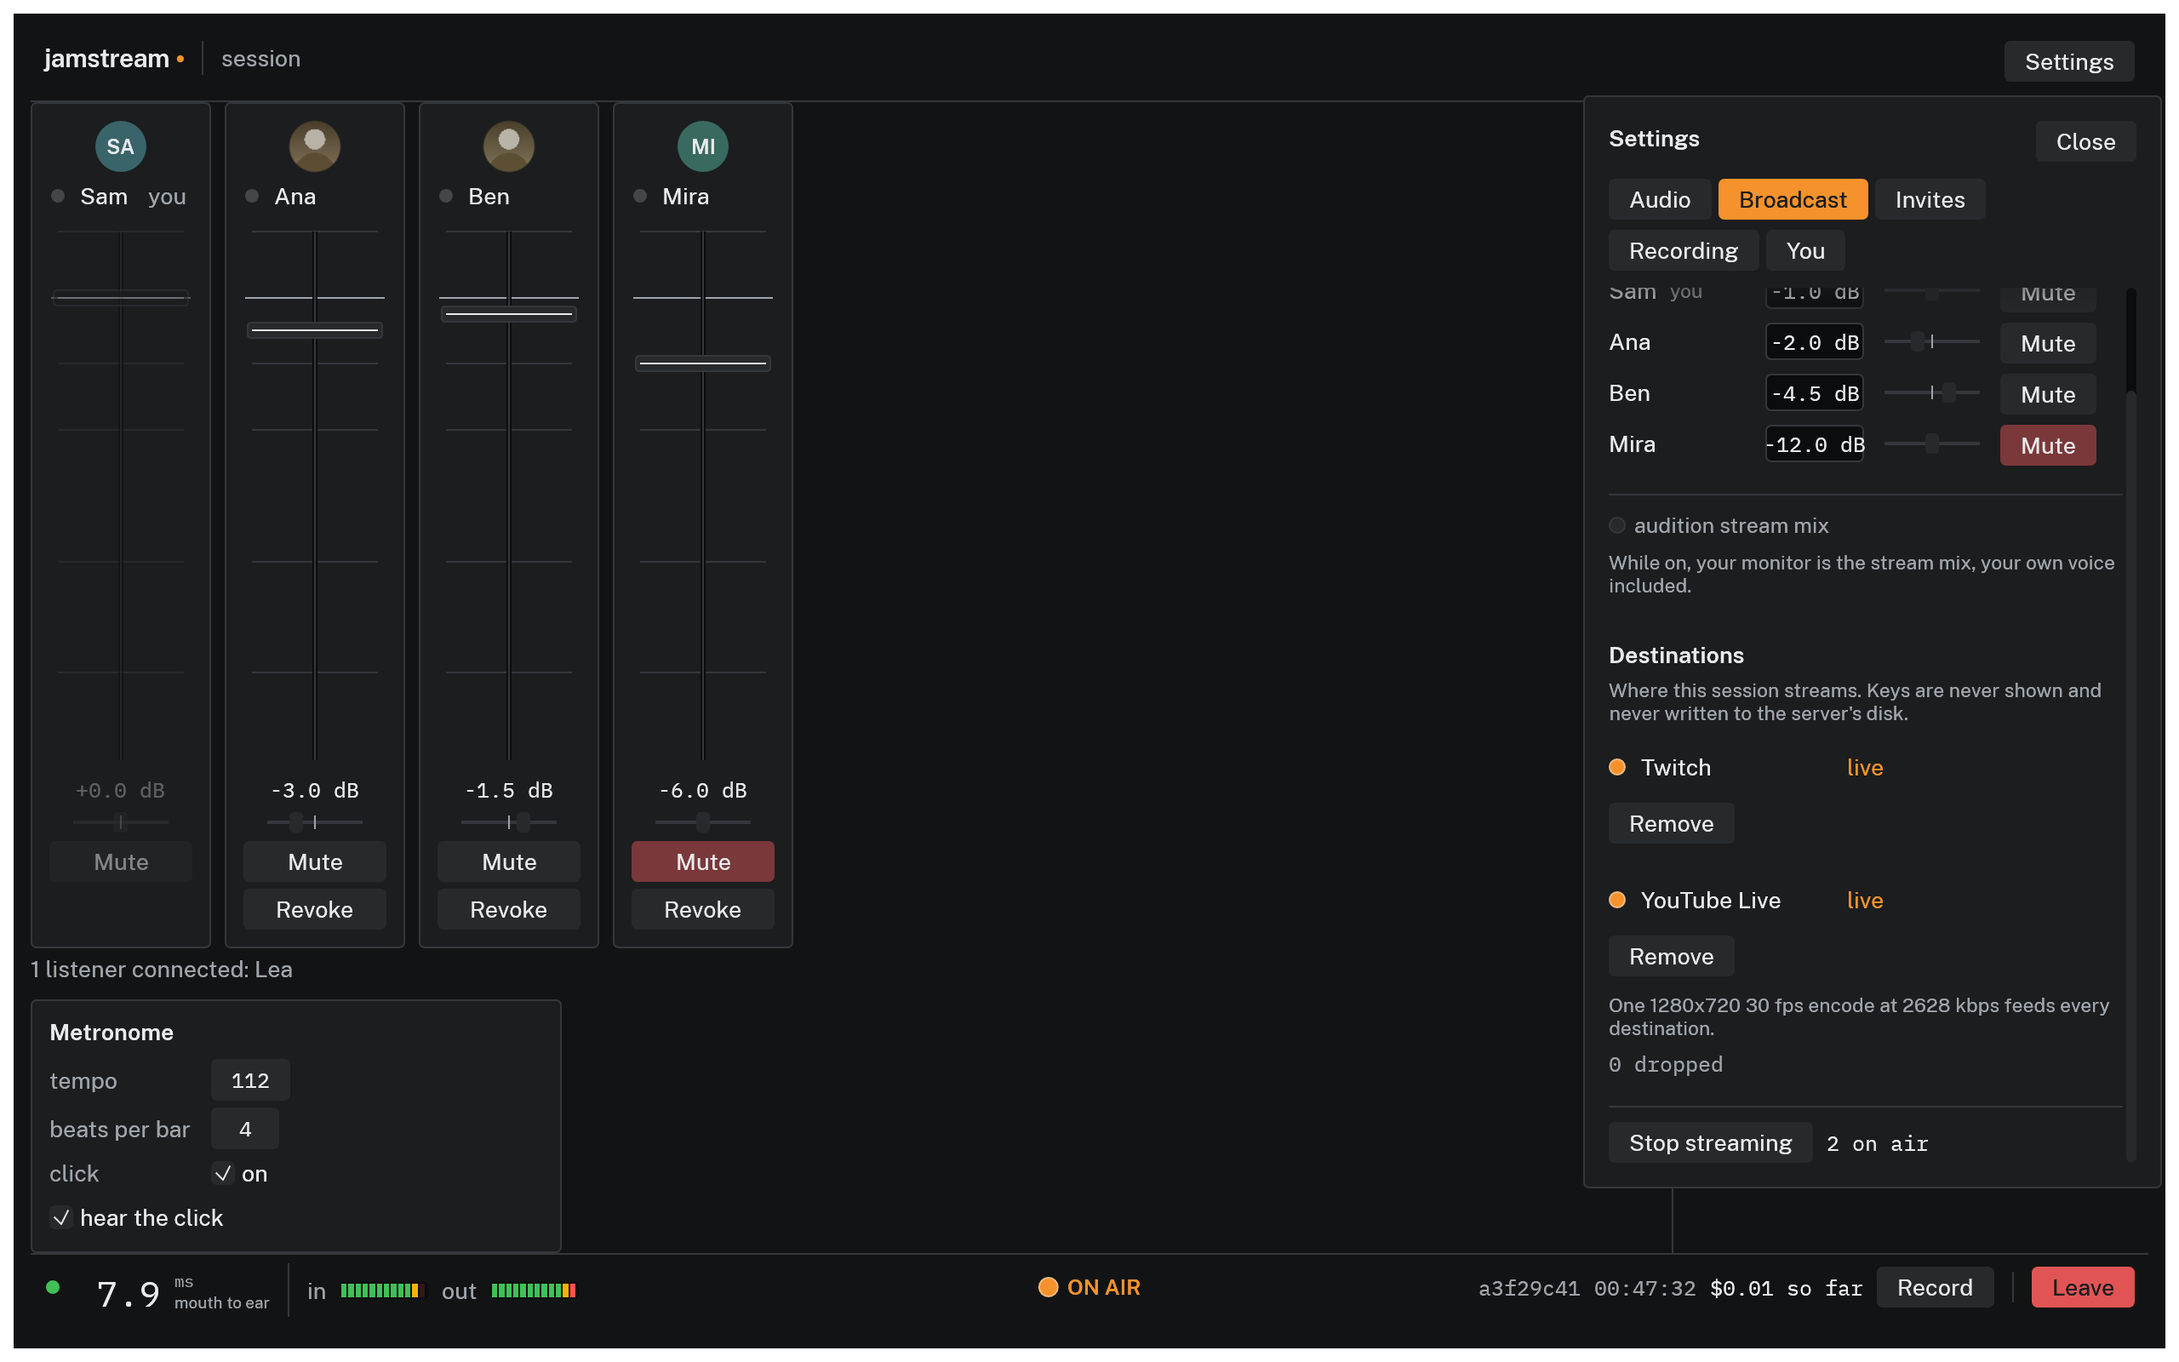
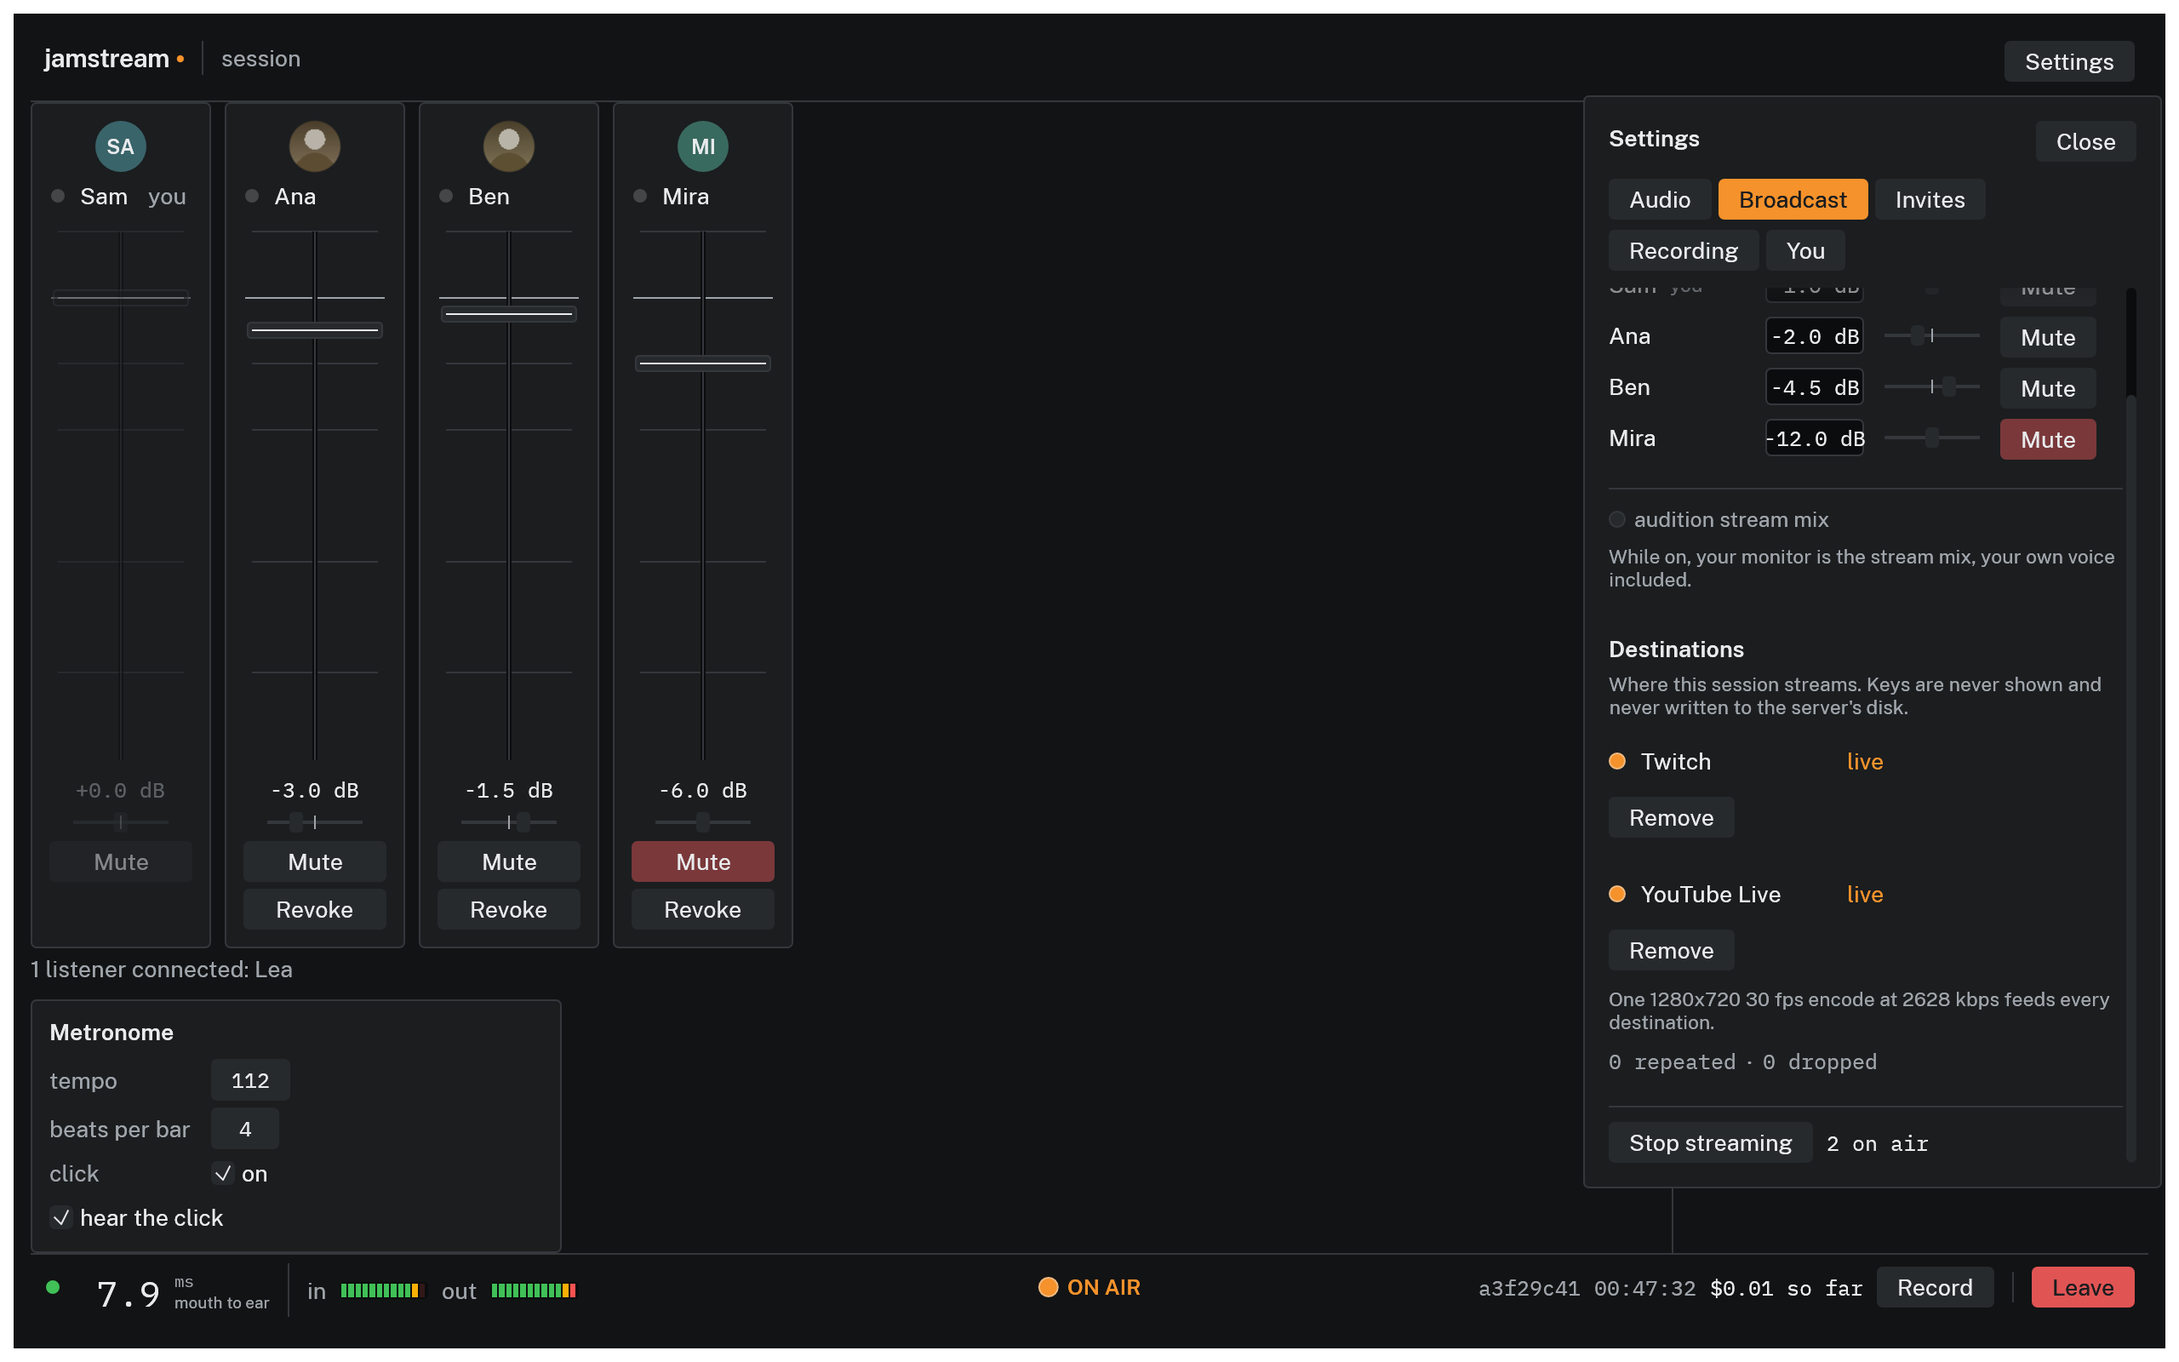
feat(client): show repeats and losses as two frame counts (#305)
The wire half of #278 split the counter, so the app can stop claiming
neither. A repeat is a frame the machine had no time to draw, sent
again as the last picture: nothing is missing, the sound stays in step,
the video stutters. A loss is a frame the encoder would not take, and
the video is that many pictures short. One says the machine is
struggling, the other says it has already failed to deliver, and the
old single number could be either.

Both sit under the encode line, because one encode feeds every
destination. Repeats are read first and are the earlier warning, so
they go amber at a second of stutter and red at ten; a loss is video
nobody gets, so it keeps the old thresholds of one and thirty.

The streaming guide's paragraph, corrected twice already while the two
were one number, now describes them apart.

diff --git a/crates/client/src/screens/destinations.rs b/crates/client/src/screens/destinations.rs
@@ -30,10 +30,17 @@ use crate::widgets::{lamp, row_cell};
 const NAME_W: f32 = 132.0;
 const STATE_W: f32 = 80.0;
 
-/// Any dropped frame is worth noticing; 30 is a second of video at the
-/// pipeline's 30 fps, which earns the meter's red.
+/// A lost frame is video the broadcast will never have, so any of them is worth
+/// noticing; 30 is a second of it at the pipeline's 30 fps, which earns the
+/// meter's red.
 const DROPPED_AMBER: u64 = 1;
 const DROPPED_RED: u64 = 30;
+
+/// A repeat costs nobody a picture, so one of them is not news: a machine that
+/// misses a single draw deadline in an hour is fine. A second of stutter is
+/// worth amber, ten seconds of it the red.
+const REPEATED_AMBER: u64 = 30;
+const REPEATED_RED: u64 = 300;
 
 /// Why a key cannot be sent, if it cannot. The control plane refuses these
 /// silently, so they are caught here where there is somewhere to say so.
@@ -335,7 +342,7 @@ impl DestinationsPanel {
         }
         ui.add_space(theme::SPACE_SM);
         ui.label(theme::muted(ui, self.encode.clone()).small());
-        dropped_frames(ui, snap);
+        frame_counts(ui, snap);
         if let Some(err) = self.error.clone() {
             ui.add_space(theme::SPACE_XS);
             theme::reason(ui, err);
@@ -592,46 +599,72 @@ impl DestinationsPanel {
 /// The bitrate is a line under the rows for the same reason, and this is the
 /// same shape of fact.
 ///
-/// What it counts is frames the machine could not keep up with, and the
-/// tooltip said "frames the broadcast had to skip", which is not what usually
-/// happens: the frame count is what holds video in step with the audio, so a
-/// frame there was no time to draw goes out again as the last picture. It is
-/// not never, either. Since #271 the video queue has a cap, and a frame the
-/// encoder cannot take is left out rather than repeated, which does leave the
-/// stream a picture short. The counter conflates the two (#278 tracks
-/// splitting it), so the line says the part a host can act on and claims
-/// neither.
-fn dropped_frames(ui: &mut Ui, snap: &Snapshot) {
-    // Every destination reports the same figure; taking the largest is how this
-    // stays right if one row's status is a frame behind another's.
-    let Some(n) = snap
-        .stream
-        .destinations
-        .iter()
-        .map(|d| d.dropped_frames)
-        .max()
-    else {
+/// Two counts, because one could not say which of two opposite things a host
+/// was looking at (#278). A repeat means the machine ran out of time to draw a
+/// frame and sent the last picture again: nothing is missing, the audio stays
+/// in step, and the cost is a stutter. A loss means the encoder's queue refused
+/// a frame, so the video is that many pictures short of its audio and the
+/// machine has already failed to deliver. The first says it is struggling; the
+/// second says it is too late.
+fn frame_counts(ui: &mut Ui, snap: &Snapshot) {
+    // Every destination reports the same pair; taking the largest of each is
+    // how this stays right if one row's status is a frame behind another's.
+    let destinations = &snap.stream.destinations;
+    if destinations.is_empty() {
+        return;
+    }
+    let repeated = destinations.iter().map(|d| d.repeated_frames).max();
+    let dropped = destinations.iter().map(|d| d.dropped_frames).max();
+    let (Some(repeated), Some(dropped)) = (repeated, dropped) else {
         return;
     };
+    ui.horizontal(|ui| {
+        ui.spacing_mut().item_spacing.x = theme::SPACE_SM;
+        // Repeats first: they are the common case and the early warning.
+        count(
+            ui,
+            repeated,
+            "repeated",
+            REPEATED_AMBER,
+            REPEATED_RED,
+            "frames the machine had no time to draw, sent again as the last picture: nothing \
+             is missing and the sound stays in step, but the video stutters and the machine \
+             is at its limit",
+        );
+        ui.label(theme::mono_muted(ui, "·"));
+        // "dropped" keeps the word every streamer already has for a frame that
+        // never arrived. It is only now true of this counter: until #278 it
+        // covered repeats too, which are the opposite reading.
+        count(
+            ui,
+            dropped,
+            "dropped",
+            DROPPED_AMBER,
+            DROPPED_RED,
+            "frames the encoder would not take, so the video is that many pictures short of \
+             the sound. One count for the one encode every destination shares, so removing a \
+             destination does not bring it down",
+        );
+    });
+}
+
+/// One frame count in the meter's own colour language: this is a health
+/// reading, so it runs muted, amber, red.
+fn count(ui: &mut Ui, n: u64, word: &str, amber: u64, red: u64, hover: &str) {
     let p = theme::palette_of(ui);
-    // The meter's own colour language: this is a health reading, so it runs
-    // muted, amber, red.
-    let color = if n >= DROPPED_RED {
+    let color = if n >= red {
         p.meter_red
-    } else if n >= DROPPED_AMBER {
+    } else if n >= amber {
         p.meter_amber
     } else {
         p.text_muted
     };
     ui.label(
-        RichText::new(format!("{n} dropped"))
+        RichText::new(format!("{n} {word}"))
             .monospace()
             .color(theme::readable(color, p.surface1, p)),
     )
-    .on_hover_text(
-        "frames the session machine could not keep up with, mostly sent again as the last \
-         picture and sometimes left out; one count for the one encode every destination shares",
-    );
+    .on_hover_text(hover);
 }
 
 enum RowAction {

diff --git a/crates/client/src/demo.rs b/crates/client/src/demo.rs
@@ -103,6 +103,7 @@ struct Destination {
     platform: StreamPlatform,
     state: DestinationState,
     dropped_frames: u64,
+    repeated_frames: u64,
 }
 
 struct DemoState {
@@ -287,16 +288,20 @@ impl DemoRuntime {
     /// snapshot hold a state a real pipeline passes through in seconds; no
     /// key is involved, which is the point.
     pub fn set_destinations(&self, entries: &[(StreamPlatform, DestinationState)]) {
-        // One encode feeds every destination, so the dropped counter is one
-        // counter and the pipeline reports the same value on every row
+        // One encode feeds every destination, so both frame counters are one
+        // counter each and the pipeline reports the same pair on every row
         // (jamstream_stream::pipeline, `status`). This used to hand Twitch 0 and
         // YouTube 41, which is a state the product cannot reach and which the
         // docs site was publishing (#264). Nonzero whenever anything has gone
-        // wrong at all, so the readout is still exercised.
+        // wrong at all, so both readouts are still exercised.
+        //
+        // Repeats far outnumber losses, which is the shape a struggling machine
+        // really has: it runs out of time to draw long before the encoder's
+        // queue starts refusing frames.
         let anything_wrong = entries
             .iter()
             .any(|(_, state)| matches!(state, DestinationState::Failed { .. }));
-        let repeats = if anything_wrong { 41 } else { 0 };
+        let (repeats, losses) = if anything_wrong { (41, 3) } else { (0, 0) };
         let mut s = self.state.lock().expect("demo state");
         s.destinations = entries
             .iter()
@@ -305,7 +310,8 @@ impl DemoRuntime {
                 id: DestinationId(i as u16),
                 platform: *platform,
                 state: state.clone(),
-                dropped_frames: repeats,
+                dropped_frames: losses,
+                repeated_frames: repeats,
             })
             .collect();
     }
@@ -441,6 +447,7 @@ impl Runtime for DemoRuntime {
                     state: d.state.clone(),
                     bitrate_kbps,
                     dropped_frames: d.dropped_frames,
+                    repeated_frames: d.repeated_frames,
                 })
                 .collect(),
         };
@@ -546,6 +553,7 @@ impl Runtime for DemoRuntime {
                         DestinationState::Idle
                     },
                     dropped_frames: 0,
+                    repeated_frames: 0,
                 });
             }
             Command::RemoveDestination(id) => s.destinations.retain(|d| d.id != id),
@@ -558,6 +566,7 @@ impl Runtime for DemoRuntime {
                 for d in &mut s.destinations {
                     d.state = DestinationState::Idle;
                     d.dropped_frames = 0;
+                    d.repeated_frames = 0;
                 }
             }
             // The demo recorder transitions instantly; the state a fixture

diff --git a/crates/client/tests/interactions.rs b/crates/client/tests/interactions.rs
@@ -2392,3 +2392,50 @@ fn takes_is_reached_from_the_recent_sessions_card_and_only_when_there_are_any() 
         );
     }
 }
+
+/// #278: one frame counter could not say which of two opposite things a host
+/// was looking at. A repeat is a stutter with nothing missing; a loss is video
+/// the broadcast will never have. Both are on screen, both are named, and each
+/// says what it means on hover.
+///
+/// Over a pipeline that has both, which is the shape a struggling machine
+/// really has: it runs out of time to draw long before the encoder's queue
+/// starts refusing frames.
+#[test]
+fn the_two_frame_counts_are_named_apart() {
+    let demo = DemoRuntime::frozen(FROZEN_FRAME, true);
+    demo.set_destinations(&[
+        (
+            jamstream_client::runtime::StreamPlatform::Twitch,
+            DestinationState::Live,
+        ),
+        (
+            jamstream_client::runtime::StreamPlatform::YouTube,
+            DestinationState::Failed {
+                reason: "pusher exited: rtmp connection refused".to_owned(),
+            },
+        ),
+    ]);
+    let rt: Recorder = Arc::new(RecordingRuntime::new(demo));
+    let mut harness = drawer_harness(rt, SettingsTab::Broadcast, vec2(1280.0, 800.0));
+    harness.run_steps(3);
+
+    // Two readouts, each with its own count: 41 draws missed, 3 frames the
+    // encoder would not take.
+    assert!(
+        harness.query_by_label("41 repeated").is_some(),
+        "the repeats have to be on screen under the encode line"
+    );
+    assert!(
+        harness.query_by_label("3 dropped").is_some(),
+        "and the losses have to be a separate figure"
+    );
+    // Neither may still be the merged number: 44 would be the old single
+    // count, and either word carrying the other total is the defect.
+    for wrong in ["44 repeated", "44 dropped", "3 repeated", "41 dropped"] {
+        assert!(
+            harness.query_by_label(wrong).is_none(),
+            "{wrong} is on screen, so the two counts are crossed"
+        );
+    }
+}

diff --git a/crates/client/src/runtime.rs b/crates/client/src/runtime.rs
@@ -208,8 +208,14 @@ pub struct DestinationView {
     /// Video plus audio bitrate the encoder is configured for. One encode
     /// feeds every destination, so it is the same number on each.
     pub bitrate_kbps: u32,
-    /// Frames the pipeline could not hand the encoder in time, cumulative.
+    /// Frames the encoder's queue refused, cumulative and pipeline-wide.
+    /// Genuine loss: the video timeline is this many pictures short of its
+    /// audio.
     pub dropped_frames: u64,
+    /// Catch-up frames the renderer had no time to draw, cumulative and
+    /// pipeline-wide. Delivered again as the last picture, so nothing is
+    /// missing and the audio stays in step; the cost is a stutter.
+    pub repeated_frames: u64,
 }
 
 /// The recorder as the server last reported it, for the record lamp and

diff --git a/crates/client/src/live.rs b/crates/client/src/live.rs
@@ -1109,6 +1109,7 @@ impl Worker {
                             state: d.state,
                             bitrate_kbps: d.bitrate_kbps,
                             dropped_frames: d.dropped_frames,
+                            repeated_frames: d.repeated_frames,
                         })
                         .collect();
                 }

diff --git a/site/src/guides/streaming.md b/site/src/guides/streaming.md
@@ -4,7 +4,7 @@ The host can put a session on air to Twitch and YouTube Live, either one alone o
 
 Only the host can start or stop a broadcast. Everyone in the session sees the ON AIR lamp in the middle of the status bar, because everyone in the session is in the broadcast.
 
-![The Broadcast tab of Settings, both Twitch and YouTube Live reading live with zero dropped frames, and ON AIR lit in the status bar](../images/session_destinations_live_two.png)
+![The Broadcast tab of Settings, both Twitch and YouTube Live reading live with no repeated or dropped frames, and ON AIR lit in the status bar](../images/session_destinations_live_two.png)
 *On air to both platforms.*
 
 ## What goes out
@@ -49,11 +49,17 @@ Each row says what that platform is actually doing:
 | `live` | the platform is receiving the broadcast |
 | `failed` | it stopped, with the reason on the next line |
 
-**dropped** counts frames the machine could not keep up with. Most of them are repeats: the video runs at 30 frames a second and the frame count is what holds it in step with the audio, so a frame there was no time to draw goes out again as the last picture rather than being skipped. If the encoder falls far enough behind, a frame is left out instead, and the stream is short that picture. It is one count for the whole broadcast, so both rows show the same number, and it changes color as it rises. A number that rises means the session machine cannot draw and encode 30 frames a second; removing a destination does not bring it down, because one encode feeds every platform.
+Under the encode line are two frame counts, and they mean different things.
+
+**repeated** is frames the machine had no time to draw. The video runs at 30 frames a second and the frame count is what holds it in step with the sound, so a frame with no time to draw goes out again as the last picture. Nothing is missing and the sound stays in step; the video stutters. A figure that climbs means the machine is at its limit.
+
+**dropped** is frames the encoder would not take, and those are gone: the video is that many pictures short of the sound. Repeats come first and losses only once the machine is well past keeping up, so any dropped frame is worth acting on.
+
+Both are one count for the whole broadcast, so both rows show the same pair, and each changes color as it rises. Removing a destination brings neither down, because one encode feeds every platform. What helps is a shorter session, a smaller machine load, or one platform instead of two.
 
 ## When a platform fails
 
-![The Broadcast tab with Twitch live and YouTube Live failed, showing the reason and a red dropped frame count, and STREAM FAILED lit in the status bar](../images/session_destinations_failed.png)
+![The Broadcast tab with Twitch live and YouTube Live failed, showing the reason, the repeated and dropped frame counts in amber, and STREAM FAILED lit in the status bar](../images/session_destinations_failed.png)
 *One platform's connection failed; the other kept streaming.*
 
 A stream that dies quietly is worse than one that never started, so a failure shows in three places: the row goes red with the reason under it, the tab counts the failures, and the status bar lights STREAM FAILED beside ON AIR even with Settings closed.
